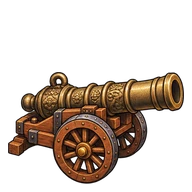
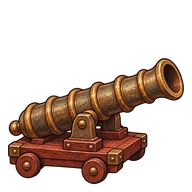
[디자인팀] 한국2 소품 천자총통 다시 그려 교체
Claude-Session: https://claude.ai/code/session_013M9CK1DXpnv28ZtJdsmhuH

diff --git a/teams/2-디자인/작업기록.md b/teams/2-디자인/작업기록.md
@@ -211,3 +211,4 @@
 - 사용자 '나'(스킬 소품 그림): style-guide '스킬 소품 그림 60개' 표(소품·이동·크기), 3D 도형 상징 물체 취소 표시, round19-props 지시서(props60.json)·run.py(15장, A/B).
 - 19차 소품 60개(팀장 dhk 2c2b27b) 점검: 그림체 맞음. 다시 그리기 추천 2(한국2 서양식 포가 → 천자총통, 콜롬비아2 황금 원반 → 기병 사브르), 그대로 2(멕시코1 나라 색 깃털 = 국기 무늬 아님, 덴마크1 돌 거인 조각상). redo.py(한 개만 다시) 추가. 미리보기 preview/r19-check.html.
 - 사용자 '넣어': 스킬 소품 60개 src/assets/skill/prop/<나라>-<n>.webp 반영(한국2·콜롬비아2는 다시 그린 뒤 교체 예정).
+- 한국2 소품 천자총통 다시 그림(kim): 마디 고리 청동 포신 + 낮은 나무 받침·작은 바퀴 4개 → src 교체(예전 s08/korea-2.v1.webp). 콜롬비아2는 Codex가 그리지 않고 끝나 1번 다시 시도 중.
